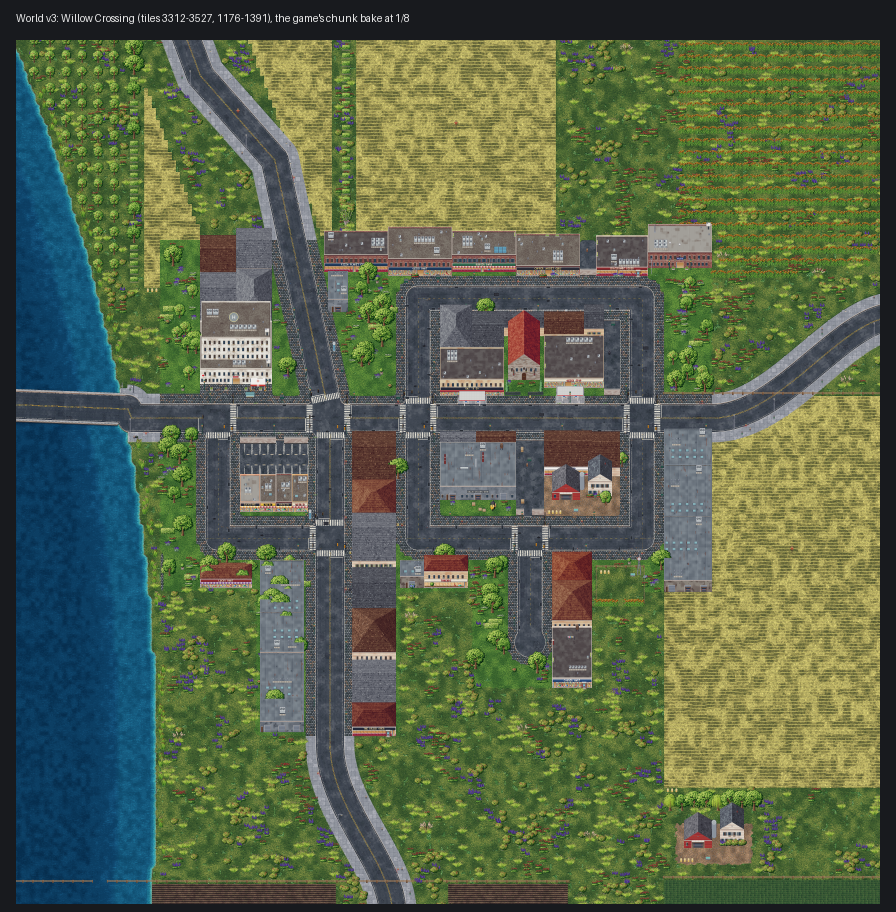
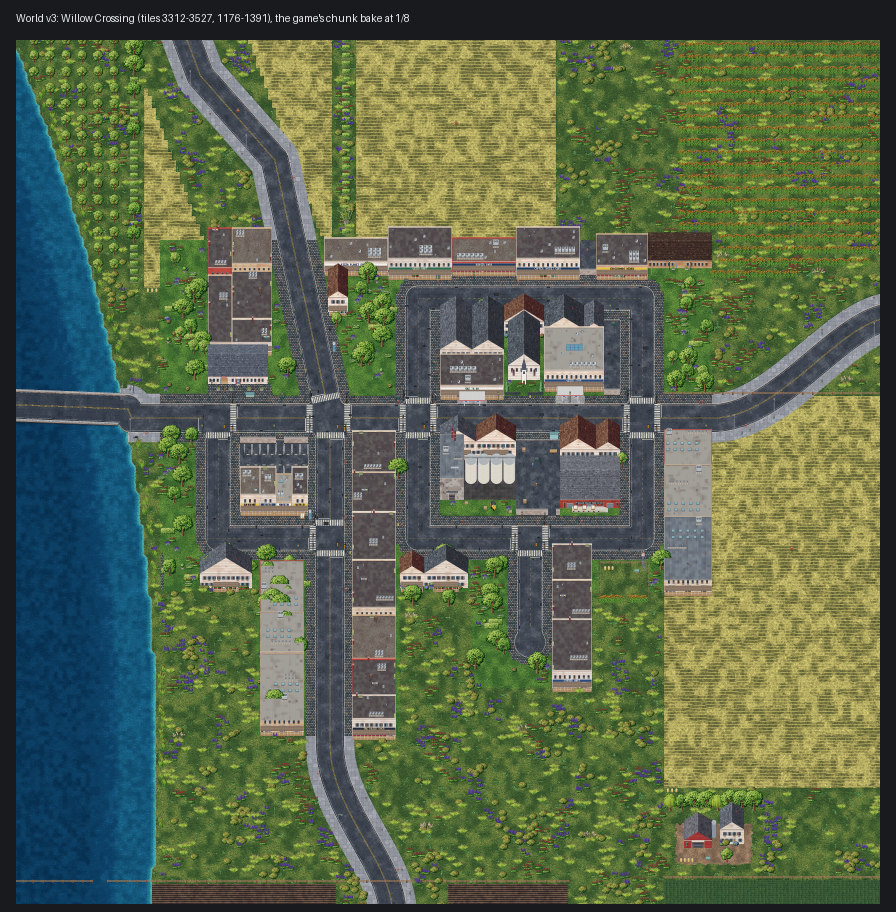
World v3: the towns' shopfronts one storey under a low gable with a false front on the porch; plain-roof lots take the house and shop looks; 8.13.2 and the DEVLOG
Claude-Session: https://claude.ai/code/session_015TdwbASoLBxZr1VoEZGToX

diff --git a/client/art2/game/statics.js b/client/art2/game/statics.js
@@ -749,11 +749,10 @@ function townLook(spec, b, s, TL, rnd, w, pitched) {
   const L = b.look, wood = (c) => Object.assign(spec, { style: 'siding', wallColor: c, balconies: false, ivy: 0, graffiti: 0, grime: 0.1, fireEscape: false, boarded: 0 });
   const gable = (c, slope = 0.4) => { Object.assign(spec, { pitch: 'gable', ridge: 'ew', roof: 'shingle', roofColor: c, slope }); delete spec.parapet; return true; };
   const label = (re, t) => { for (const p of spec.plaques || []) if (re.test(p.text)) p.text = t; };
-  if (FLATS.has(L)) {
-    wood(L === 'lodgerow' && s.unit === 0 ? '#4e3424' : pick(TL.walls, rnd()));
-    Object.assign(spec, { floors: rnd() < 0.35 ? 2 : 1, roof: 'flat', parapet: 16 });
-    delete spec.pitch;
-    return false;
+  if (FLATS.has(L)) {   // (one storey under a low gable; the false front stands in front of it, on the porch's model)
+    wood(L === 'lodgerow' && s.unit === 0 ? '#4e3424' : b.lookC || pick(TL.walls, rnd()));
+    spec.floors = 1; delete spec.height;
+    return gable(pick(TL.roofs, rnd()), 0.3);
   }
   switch (L) {
     case 'cabin': wood(pick(['#6e4a30', '#7a5436', '#5e4030', '#8a6440'], rnd())); spec.roofColor = pick(['#3e6a5a', '#4a3a30', '#3e4448'], rnd()); return pitched;
@@ -775,7 +774,7 @@ function townKit(I, list) {
     const m = TKIT[k.k];
     if (!m) continue;
     const hd = qa(k.a || 0, k.k === 'rail' ? 32 : 4), K = k.k;
-    const a = K === 'porch' ? [k.len || 160, k.z || 0] : K === 'logs' || K === 'saw' || K === 'dock' || K === 'rail' ? [k.len || 160] : K === 'silos' ? [k.n || 4, k.len || 360] : K === 'boards' ? [k.n || 5] : K === 'lamp' ? ['cast', 1] : [];
+    const a = K === 'porch' ? [k.len || 160, k.z || 0, k.ff || 0, k.c || '#7a5436'] : K === 'logs' || K === 'saw' || K === 'dock' || K === 'rail' ? [k.len || 160] : K === 'silos' ? [k.n || 4, k.len || 360] : K === 'boards' ? [k.n || 5] : K === 'lamp' ? ['cast', 1] : [];
     put(I, vitem(`tk:${m}:${a.join(',')}:${hd.toFixed(3)}`, m, a, k.x, k.y, hd, null, K === 'antlers' ? { z0: k.z || 50 } : null));
     if (K === 'lamp') lightAt(I, k.x, k.y, 80, 130, [1, 0.85, 0.6], 1.2, 'lamp');
   }
@@ -1323,7 +1322,7 @@ function voxModel(m, a) {
     case 'lighthouse': return WL.lighthouse(a[0], a[1]); case 'pillar': return RD.pillar(a[0], a[1], a[2]); case 'canopy': return U.fuelCanopy(a[0], a[1], a[2], a[3]); case 'fuelPump': return U.fuelPump(a[0], a[1]);
     case 'platformCanopy': return RD.platformCanopy(a[0], a[1], a[2]); case 'stationEntrance': return RD.stationEntrance(a[0], a[1]); case 'stationHouse': return RD.stationHouse(a[0], a[1]); case 'lifeguardTower': return RD.lifeguardTower(); case 'crossingSignal': return RD.crossingSignal(a[0], a[1]);
     case 'subwayKiosk': return RD.subwayKiosk(a[0], a[1]);   // (SU5-B: a subway stop's street entrance on its kiosk's footprint)
-    case 'tPorch': return TN.porch(a[0], a[1]); case 'tAntlers': return TN.antlers(); case 'tLogs': return TN.logStack(a[0]); case 'tLoader': return TN.logLoader();   // (H40: World v3's towns' own models, props-towns.js)
+    case 'tPorch': return TN.porch(a[0], a[1], a[2], a[3]); case 'tAntlers': return TN.antlers(); case 'tLogs': return TN.logStack(a[0]); case 'tLoader': return TN.logLoader();   // (H40: World v3's towns' own models, props-towns.js)
     case 'tSaw': return TN.sawLine(a[0]); case 'tSilos': return TN.silos(a[0], a[1]); case 'tSteeple': return TN.steeple(); case 'tDock': return TN.loadingDock(a[0]);
     case 'tSacks': return TN.feedSacks(); case 'tBoards': return TN.boardRack(a[0]); case 'tShelter': return TN.pierShelter();
     case 'erCanopy': return RD.erCanopy(a[0]);   // (IN1-B: the hospital's ambulance bay)
@@ -1388,7 +1387,7 @@ function vdim(m, a) {
     case 'lighthouse': return [48, 48, (a[0] || 140) + 36]; case 'pillar': return [(a[1] || 30) + 4, a[2] || 90, a[0] || 90]; case 'canopy': return [a[0] || 150, a[1] || 80, (a[2] || 52) + 10]; case 'fuelPump': return [12, 10, 34];
     case 'platformCanopy': return [a[0] || 200, a[1] || 40, 62]; case 'stationEntrance': return [70, 44, 54]; case 'stationHouse': return [a[1] || 140, 92, 74]; case 'lifeguardTower': return [46, 70, 66]; case 'crossingSignal': return [24, 8, 70]; case 'controlTower': return [70, 70, (a[0] || 220) + 50];
     case 'subwayKiosk': return [128, 96, 64]; case 'erCanopy': return [120, 62, 60];
-    case 'tPorch': return [a[0] || 160, 34 + (a[1] ? 14 : 0), (a[1] || 0) + 56]; case 'tAntlers': return [36, 6, 26]; case 'tLogs': return [a[0] || 160, 42, 34]; case 'tLoader': return [84, 46, 52];
+    case 'tPorch': return [a[0] || 160, 34 + (a[1] ? 14 : 0), Math.max((a[1] || 0) + 56, (a[2] || 0) + 14)]; case 'tAntlers': return [36, 6, 26]; case 'tLogs': return [a[0] || 160, 42, 34]; case 'tLoader': return [84, 46, 52];
     case 'tSaw': return [40, a[0] || 112, 48]; case 'tSilos': { const n = a[0] || 4, s = a[1] || 360, r = Math.min(48, Math.floor(s / n / 2) - 2); return [s, r * 2 + 4, 150 + Math.ceil(r * 0.45) + 14]; }
     case 'tSteeple': return [44, 44, 214]; case 'tDock': return [a[0] || 240, 40, 30]; case 'tSacks': return [34, 28, 26]; case 'tBoards': return [(a[0] || 5) * 10 + 8, 16, 64]; case 'tShelter': return [84, 64, 62];
     case 'fence': return [a[1] || 60, 6, ({ picket: 16, wood: 30, chain: 32, iron: 28, stone: 12 }[a[0]] || 20) + 6]; case 'fenceKind': return [a[1] || 60, 6, 26]; case 'gatePillar': return [14, 14, (a[1] || 36) + 16];

diff --git a/shared/world3-towns.js b/shared/world3-towns.js
@@ -298,6 +298,7 @@ export function townsDone(m) {
 const HOUSE_LOOK = { 57: 'cabin', 58: 'farmhouse', 59: 'cottage' }, SHOP_LOOK = { 57: 'shopfront', 58: 'shopfront', 59: 'beachshop' };
 const SHOP_KINDS = new Set(['diner', 'rest1', 'rest2', 'conv', 'quickstop', 'liquor', 'repair', 'strip', 'shops1', 'shops2', 'boutique']);
 const PART = { sawmill: 0.56, elevator: 0.32 };
+const WOODS = { 57: ['#6e4a30', '#7a5436', '#8a6440', '#6a5a44', '#5e4030'], 58: ['#e8e4d8', '#f0ecdc', '#d8c8a0', '#c84a3a', '#e0d8c0'], 59: ['#9ac8d0', '#e8d8b0', '#f0c8b0', '#b8d8b8', '#f4f0e4', '#d0b8d8'] };
 export function townModels(m) {
   const W = m.w, kit = (m.townKit ||= []), named = new Map(TOWN_SPECIALS.filter((s) => s.look).map((s) => [s.names[0], s.look]));
   const open = (x, y) => { const tl = m.tileAtPx(x, y); return tl !== T.ROAD && tl !== T.BRIDGE && tl !== T.WATER && tl !== T.DEEP && tl !== T.BUILDING; };
@@ -314,14 +315,18 @@ export function townModels(m) {
       if (!look) continue;
       b.look = look; if (p) p.look = look;
       looks[look] = (looks[look] || 0) + 1;
-      const x0 = b.tx * TILE, y0 = b.ty * TILE, w = b.tw * TILE, h = b.th * TILE, south = !b.door || b.door.ty >= b.ty + b.th;
+      // (its front: the door's side; a plain roof's, the side a street's sidewalk is on - the south when both or neither)
+      const street = (ty) => { for (let k = 0; k < 3; k++) { const tl = m.tileAt(b.tx + (b.tw >> 1), ty + k * (ty < b.ty ? -1 : 1)); if (tl === T.SIDEWALK || tl === T.ROAD) return true; } return false; };
+      const x0 = b.tx * TILE, y0 = b.ty * TILE, w = b.tw * TILE, h = b.th * TILE, south = b.door ? b.door.ty >= b.ty + b.th : street(b.ty + b.th) || !street(b.ty - 1);
       const fy = south ? y0 + h : y0, o = south ? 1 : -1, a = south ? 0 : Math.PI;   // (the front wall's line, outward, the front's heading)
       const doorX = b.door ? (b.door.tx + 0.5) * TILE : x0 + w / 2;
       const sign = (re) => (b.signs || []).find((s) => re.test(s.text));
       if (PART[look]) b.lookW = Math.max(4, Math.round(b.tw * PART[look]));
       switch (look) {
         case 'shopfront': case 'beachshop': case 'lodgerow': case 'surfrow': case 'feedrow':
-          add('porch', x0 + w / 2, fy + o * 17, { len: Math.max(48, w - 8), a }); break;
+          // (one storey under a low gable, its false front on the porch: the same boards - b.lookC)
+          b.lookC = WOODS[t.d][b.id % WOODS[t.d].length];
+          add('porch', x0 + w / 2, fy + o * 17, { len: Math.max(48, w - 8), a, ff: south ? 104 : 0, c: look === 'lodgerow' ? '#4e3424' : b.lookC }); break;
         case 'cabin': case 'farmhouse': case 'cottage':
           add('porch', Math.max(x0 + 60, Math.min(x0 + w - 60, doorX)), fy + o * 17, { len: Math.min(w - 16, look === 'farmhouse' ? 200 : 120), a }); break;
         case 'stilts': add('porch', Math.max(x0 + 56, Math.min(x0 + w - 56, doorX)), fy + o * 17, { len: Math.min(w - 16, 112), a, z: 16 }); break;

diff --git a/client/art2/props-towns.js b/client/art2/props-towns.js
@@ -11,11 +11,18 @@ const R = (h, n = 6, k) => ramp(h, n, k);
 const grain = (x, y, z) => (hash(Math.round(x / 3), Math.round(y), Math.round(z)) > 0.7 ? -0.6 : 0);
 
 // a covered porch along a shopfront or a house (a raised one on stilts at the beach): a plank deck, posts with a rail
-// between them (open in the middle for the steps), a shed roof sloping down from the wall
-export function porch(len = 160, raise = 0) {
-  const D = 34, m = new Vox(len, D + (raise ? 14 : 0), raise + 56);
+// between them (open in the middle for the steps), a shed roof sloping down from the wall; a shopfront's false front
+// (ff: its top, col: its boards) - the boarded facade standing up over the porch roof and the gable behind, a stepped top
+export function porch(len = 160, raise = 0, ff = 0, col = '#7a5436') {
+  const D = 34, m = new Vox(len, D + (raise ? 14 : 0), Math.max(raise + 56, ff + 14));
   const deck = m.mat({ ramp: MAT.woodDock, k: 3, shade: (x) => (Math.round(x) % 6 === 0 ? -0.6 : 0) }), post = m.mat({ ramp: R('#e8e0cc'), k: 3 });
   const roof = m.mat({ ramp: R('#5a4a3e'), k: 3, shade: (x) => (Math.round(x) % 5 === 0 ? -0.5 : 0) });
+  if (ff) {
+    const bd = m.mat({ ramp: R(col), k: 3, shade: (x, y, z) => (Math.round(z) % 4 === 0 ? -0.5 : 0) });
+    m.box(0, 0, 40, len, 3, ff, bd);
+    m.box(len / 3, 0, ff, (len * 2) / 3, 3, ff + 10, bd);
+    m.box(0, 0, ff - 3, len, 4, ff, post); m.box(len / 3 - 2, 0, ff + 8, (len * 2) / 3 + 2, 4, ff + 12, post);
+  }
   m.box(0, 0, raise, len, D, raise + 3, deck);
   if (raise) {
     for (let x = 2; x < len - 2; x += 24) for (const y of [2, D - 4]) m.box(x, y, 0, x + 3, y + 3, raise, post);

diff --git a/client/render/townart.js b/client/render/townart.js
@@ -17,10 +17,9 @@ function gable(g, x, y, w, h, c, ns) {
 // over a lot drawn from the prefab sheet (tiles.js drawPrefab): the building's footprint (sol: the prefab's solid)
 export function drawTownLook(g, p, sol) {
   const L = p.look, x = (p.tx + sol[0]) * TILE, y = (p.ty + sol[1]) * TILE, w = (sol[2] - sol[0]) * TILE, h = (sol[3] - sol[1]) * TILE;
-  if (FLAT.has(L)) {
-    g.fillStyle = '#4e4844'; g.fillRect(x, y, w, h);
-    g.fillStyle = 'rgba(0,0,0,.18)'; for (let k = 8; k < h; k += 8) g.fillRect(x, y + k, w, 1);
-    g.fillStyle = L === 'beachshop' || L === 'surfrow' ? '#d8c8a8' : '#7a5a3e'; g.fillRect(x, y + h - 7, w, 7);   // the false front's top
+  if (FLAT.has(L)) {   // (a low gable behind the false front's top along the street)
+    gable(g, x, y, w, h, L === 'beachshop' || L === 'surfrow' ? '#6a5a50' : '#4e4844', false);
+    g.fillStyle = L === 'beachshop' || L === 'surfrow' ? '#d8c8a8' : '#7a5a3e'; g.fillRect(x, y + h - 7, w, 7);
     return;
   }
   if (L === 'sawmill' || L === 'elevator') {

diff --git a/docs/WORLD-V3.md b/docs/WORLD-V3.md
@@ -3056,8 +3056,77 @@ Willow Road's south arm thinning into the fields. What looks wrong:
 - The drives' ramps back onto their courses bend 20-25 degrees just outside the towns (Timber Road west of Timber
   Bend, the Mine Road east of Willow Crossing).
 
-**What's left:** the towns' own prefabs (art v2 models and the classic renderer's drawing, `shared/prefab-data.js`) -
+**What's left:** ~~the towns' own prefabs (art v2 models and the classic renderer's drawing, `shared/prefab-data.js`) -
 the logging town's wooden shopfronts with porches, the sawmill and log yard, the lodge; the farm town's white church,
 grain elevator and silos, the feed store, the co-op with its loading dock; the beach town's surf shop, cottages, beach
 houses on stilts - and the planned places put in them (`TOWN_SPECIALS`); the boardwalk as a model of its own (rails,
-benches, the pier's end); the lots at the corners of Willow Crossing's loops.
+benches, the pier's end)~~ (done in 8.13.2, as looks and models over the generator's lots - not new sheet prefabs); the
+lots at the corners of Willow Crossing's loops.
+
+### 8.13.2 The towns' own models (2026-10-11, H40)
+
+8.13.1's "what looks wrong": Timber Bend still read a little like a city (its loop blocks taken by the planned places,
+each one big flat-roofed building - the clinic, the sheriff, the motel, the sawmill as the industrial prefab), Willow
+Crossing's grain elevator had no silos, Sandpiper Bay's boardwalk was plain planks. The towns' own buildings, in art v2
+and the classic renderer, after the concepts (WR2-A, WR2-C, D13, D13-B, D15-A/B, BE1, BE2, SR7). Nothing live changes:
+the world hash stays `6b6e16fdef9f`; the art hash changes.
+
+**How:** not new prefabs on the concept sheet (`shared/prefab-data.js` is generated from it, and a new key would need
+the classic renderer's sheet art and the generator's lot tables) but **looks over the generator's lots**: the build
+gives each town building a look (`townModels(m)` in `shared/world3-towns.js`, one call from `shared/world3-world.js`'s
+`done` hook after `townsDone`): `b.look` and its lot's (`m.prefabs[i].look`), which both renderers draw in place of
+the prefab's city art, and what stands round it in `m.townKit` (`{ k, x, y, a, len, n, z, ff, c, s }`, px).
+- **The looks:** Timber Bend - `shopfront` (the diner, the store, the generator's shops and the big plain-roof rows:
+  one storey of boards under a low gable, a false front and a porch along the street), `lodgerow` (the hunting lodge's
+  strip: the lodge's unit in dark logs with antlers over its door, the butcher, the hardware store and the tackle shop
+  beside it), `sawmill`, `clinic`, `sheriff`, `motel`, `cabin` (the houses: dark log siding, a green or tar gable, a
+  porch); Willow Crossing - `church` (white clapboard under slate, the steeple standing out from its front), `elevator`,
+  `coop` (a barn-red shed under a metal gable with its loading dock), `feedrow` (the market's strip with the feed
+  store's sacks out front), `farmhouse` (white clapboard, a long porch), its shopfronts; Sandpiper Bay - `surfrow` (the
+  surf shop's strip, its boards in a rack out front), `beachshop`, `cottage` and `stilts` (a raised porch on posts with
+  steps down), its clinic. The clinic, the sheriff and the motel are one storey of clapboard under a gable (the clinic
+  on a store's lot now, `liquor`'s 15 x 8 tiles, not the hospital's 18 x 12; the co-op on `quickstop`'s with room in
+  front for its dock).
+- **The sawmill and the elevator** take part of their lot (`b.lookW`: the west 56% the mill's open shed - a wide open
+  bay, the saw line out front; the west 32% the elevator's tall corrugated head house); the rest of the solid footprint
+  is the yard - three log stacks and the log loader, or a row of silos with their gallery - so nothing new blocks a
+  street (only the saw line is solid, on the lot's apron).
+- **The boardwalk and the pier** (Sandpiper Bay, `t.front`): a rail along the boardwalk's sea side, stepping with its
+  planks down the diagonal shore and open where the pier leaves it; benches facing the sea and lamps along its land
+  side; rails down both sides of the pier and across its end, a shelter at the end; the lifeguard station's tower on
+  the sand east of the pier (`m.lifeguards`, solid, drawn as the beach towns' are).
+- **Art v2** (`client/art2/props-towns.js`, voxel models: `porch` with its false front, `antlers`, `logStack`,
+  `logLoader`, `sawLine`, `silos`, `steeple`, `loadingDock`, `feedSacks`, `boardRack`, `pierShelter`; the rails,
+  benches and lamps are today's `pierRail`, `bench` and `lampPost`; `client/art2/game/statics.js`: `LOOK_ARCH` - the
+  archetype each look is drawn from - `townLook` - its wood, roof and doors - and `townKit`, which puts `m.townKit`).
+  **The classic renderer** (`client/render/townart.js`, from `tiles.js`): the look's roof over the lot's painted art
+  (gables, the false front's top, the mill's ribbed shed and dirt yard, the head house) and the kit from above.
+
+**What's built** (seed 1337, `m.world3.towns.models`): Timber Bend - the sawmill, the lodge row, the clinic, the
+sheriff, the motel, 5 shopfronts; 3 log stacks, the loader, the saw line, 6 porches, the antlers. Willow Crossing - the
+church and its steeple, the elevator and 4 silos, the co-op and its dock, the feed row and its sacks, the clinic, the
+sheriff, 7 shopfronts; 8 porches. Sandpiper Bay - the surf row and its boards, the clinic, 4 beach shops, 3 cottages, 4
+houses on stilts; 12 porches, 165 pieces of rail, 10 benches, 13 lamps, the pier's shelter, the tower. (The houses
+the generator built as plain roofs take the house looks too: their numbers are the test's.)
+
+**The test** (`test/world3townmodels.test.js`, one world build): each town has its looks and its kit; every planned
+place with a look is in it (the building, its lot, its POI); the sawmill's and the elevator's yards inside their
+footprints; nothing solid on a road (the saw line; the tower on the sand); no model on a road; the boardwalk's rails,
+benches and the shelter on the planks.
+
+**The pictures** (`node --expose-gc tools/world3-world-map.mjs --sample 0 --towns`): `docs/world-v3-town-timber.png`,
+`docs/world-v3-town-willow.png`, `docs/world-v3-town-sandpiper.png`. What looks right: the sawmill reads as a mill from
+above - a ribbed shed with its log yard and the yellow loader beside it; Willow Crossing's white church with its dark
+steeple in the north loop, the row of white silos in the south loop by the elevator's head house; the beach town's
+boardwalk railed along its sea side and the pier railed out to its shelter, the lifeguard tower on the sand. What
+looks wrong:
+- **At 1/8 the porches, false fronts, antlers, sacks and boards are a few pixels:** they want a look in the game (a
+  playtest on the v3 world, `CLA_WORLD=v3`) - not done.
+- **The big plain-roof rows** (the generator's lots it had no prefab for, at the towns' ends and along Willow Road's
+  south arm) are one long shopfront each: one porch and one false front the length of the row, cut into sections of
+  7-13 tiles by art v2 - a row of separate shopfronts each with its own front would read better.
+- **The elevator is not by the track:** the generator puts the planned places in the town's blocks; Willow Crossing has
+  no station and the main line passes outside the town (8.13's item 2) - the elevator with its siding wants the line.
+- **The boardwalk still stair-steps** with the diagonal shore (planks by columns) and its rail with it.
+- **The classic renderer** is not checked in the game (its drawing is from above, compact - `townart.js`).
+- The houses on stilts are a raised porch on posts in front of an ordinary house, not a house lifted on piles.

diff --git a/docs/DEVLOG.md b/docs/DEVLOG.md
@@ -7590,3 +7590,38 @@ Files: shared/world3-towns.js (`TOWNS3` laid out again, `pull`, `townsFront`, `T
 Tests: test/world3towns.test.js (one world build: each town's side streets on the network, at most two dead ends, the
 main street straight across the town, lots fronting it, less road than building, the boardwalk and the pier; 8.13's
 basics and places), test/world3beach.test.js (the beach towns less dense than the city).
+
+## 2026-10-11 · World v3: the towns' own models
+
+8.13.1 left the towns' looks as today's buildings recoloured: "Timber Bend still reads a little like a city: its loop
+blocks are taken by the planned places, each one big flat-roofed building (clinic, sheriff, motel, sawmill as the
+industrial building)"; Willow Crossing's grain elevator had no silos; Sandpiper Bay's boardwalk was plain planks. The
+owner asked for the towns' own building models after the concepts (WR2-A, WR2-C, D13, D13-B, D15-A/B, BE1, BE2, SR7),
+in art v2 and the classic renderer, with the planned places moved into them.
+- **Timber Bend:** wooden shopfronts - one storey of boards under a low gable, a false front standing up over a porch
+  along the street; the sawmill (an open shed with the saw line running into it, the log yard beside it: three stacks
+  of logs and a yellow log loader); the hunting lodge's row (the lodge in dark logs with antlers over its door); cabins
+  with porches; the clinic, the sheriff and the motel one storey of clapboard under a gable (the clinic on a store's
+  lot, not the hospital's block).
+- **Willow Crossing:** the white church with its steeple (a clapboard tower with a slate spire and a gilt cross); the
+  grain elevator's tall head house with a row of silos; the co-op, a barn-red shed with its loading dock; the feed
+  store's sacks out front; white farmhouses with long porches.
+- **Sandpiper Bay:** the surf shop with its boards in a rack out front; cottages and beach houses on stilts (a raised
+  porch with steps down); the boardwalk railed along its sea side with benches and lamps, the pier railed out to a
+  shelter at its end; the lifeguard station's tower on the sand.
+- **How:** the world build gives each town building a look (`townModels`, shared/world3-towns.js; `TOWN_SPECIALS`
+  name each planned place's) and lists what stands round them (`m.townKit`); art v2 draws the looks from its
+  archetypes with the towns' wood (statics.js `LOOK_ARCH`, `townLook`) and the new voxel models (client/art2/
+  props-towns.js), the classic renderer the roofs and the kit from above (client/render/townart.js). Not new sheet
+  prefabs: `shared/prefab-data.js` is generated from the concept sheet. Nothing live changes: the world hash stays
+  6b6e16fdef9f; the art hash changes. The bake's code: 747 of 765 KB (740 before).
+- Not done: a look in the game (the details are a few pixels at the pictures' 1/8; the classic renderer unchecked);
+  the elevator by the track; the long plain-roof rows as separate shopfronts; houses lifted on piles - docs/WORLD-V3.md
+  8.13.2's "what looks wrong".
+
+Files: shared/world3-towns.js (`TOWN_SPECIALS`' looks, `townModels`), shared/world3-world.js (the call),
+client/art2/props-towns.js (new), client/art2/game/statics.js, client/render/townart.js (new), client/render/tiles.js,
+test/world3townmodels.test.js (new), docs/WORLD-V3.md 8.13.1 and 8.13.2, docs/world-v3-town-*.png.
+
+Tests: test/world3townmodels.test.js (one world build: each town's looks and models, the planned places in them, the
+yards inside their footprints, nothing solid on a road, the boardwalk's dressing on its planks), test/world3towns.test.js.
